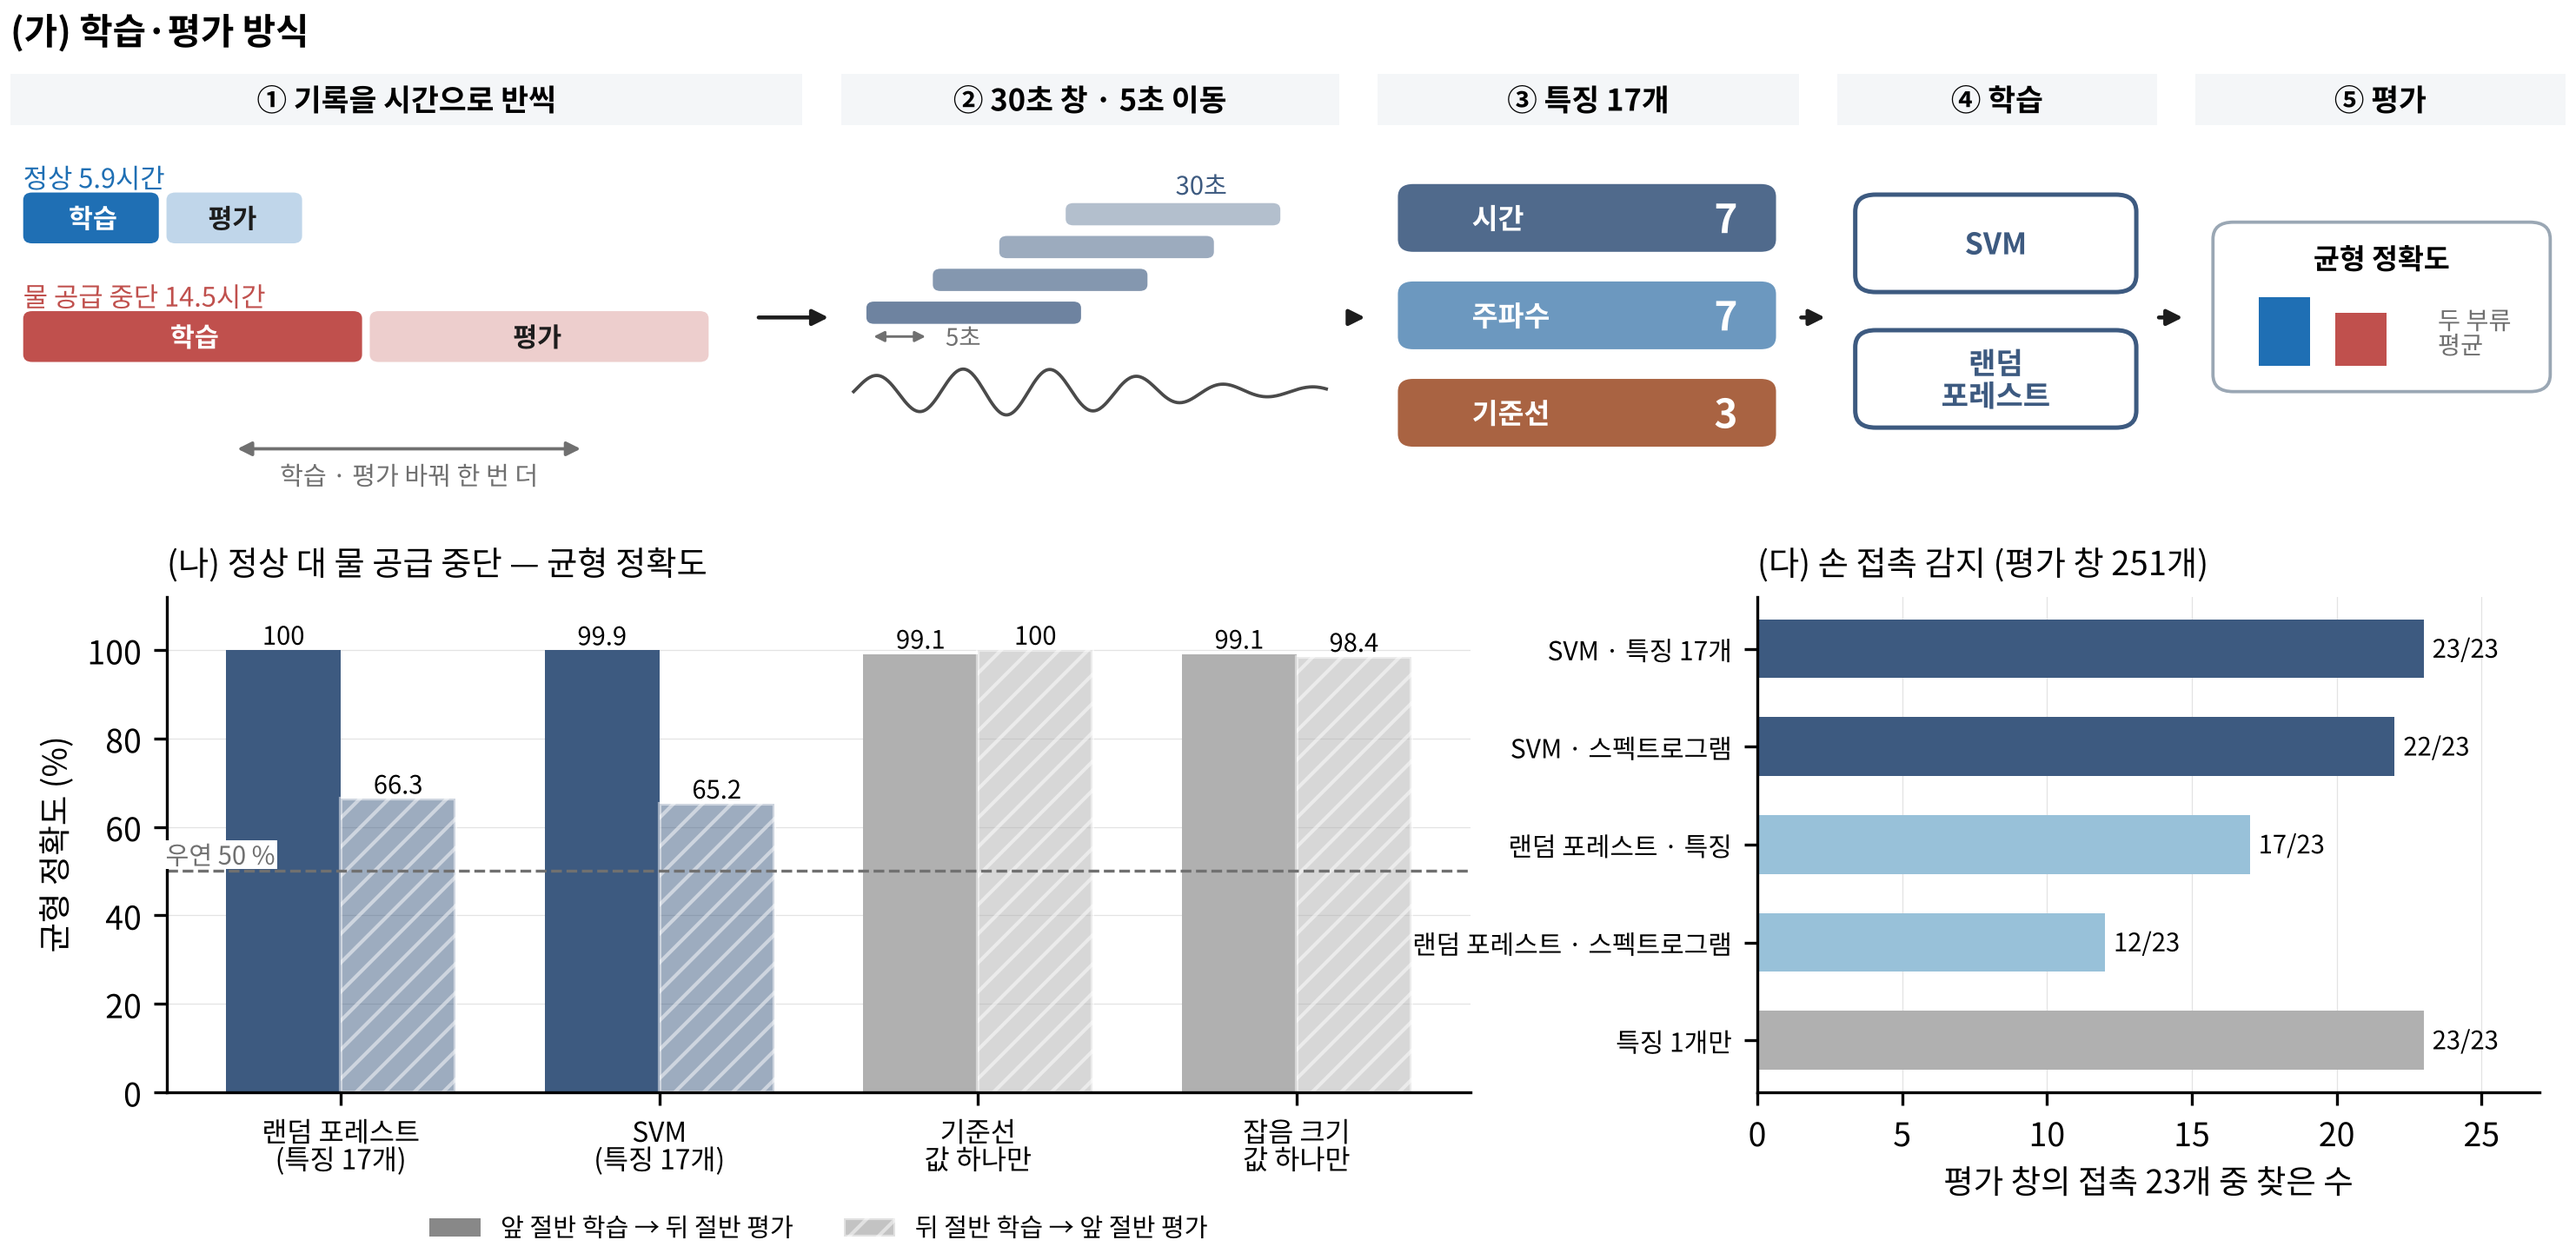
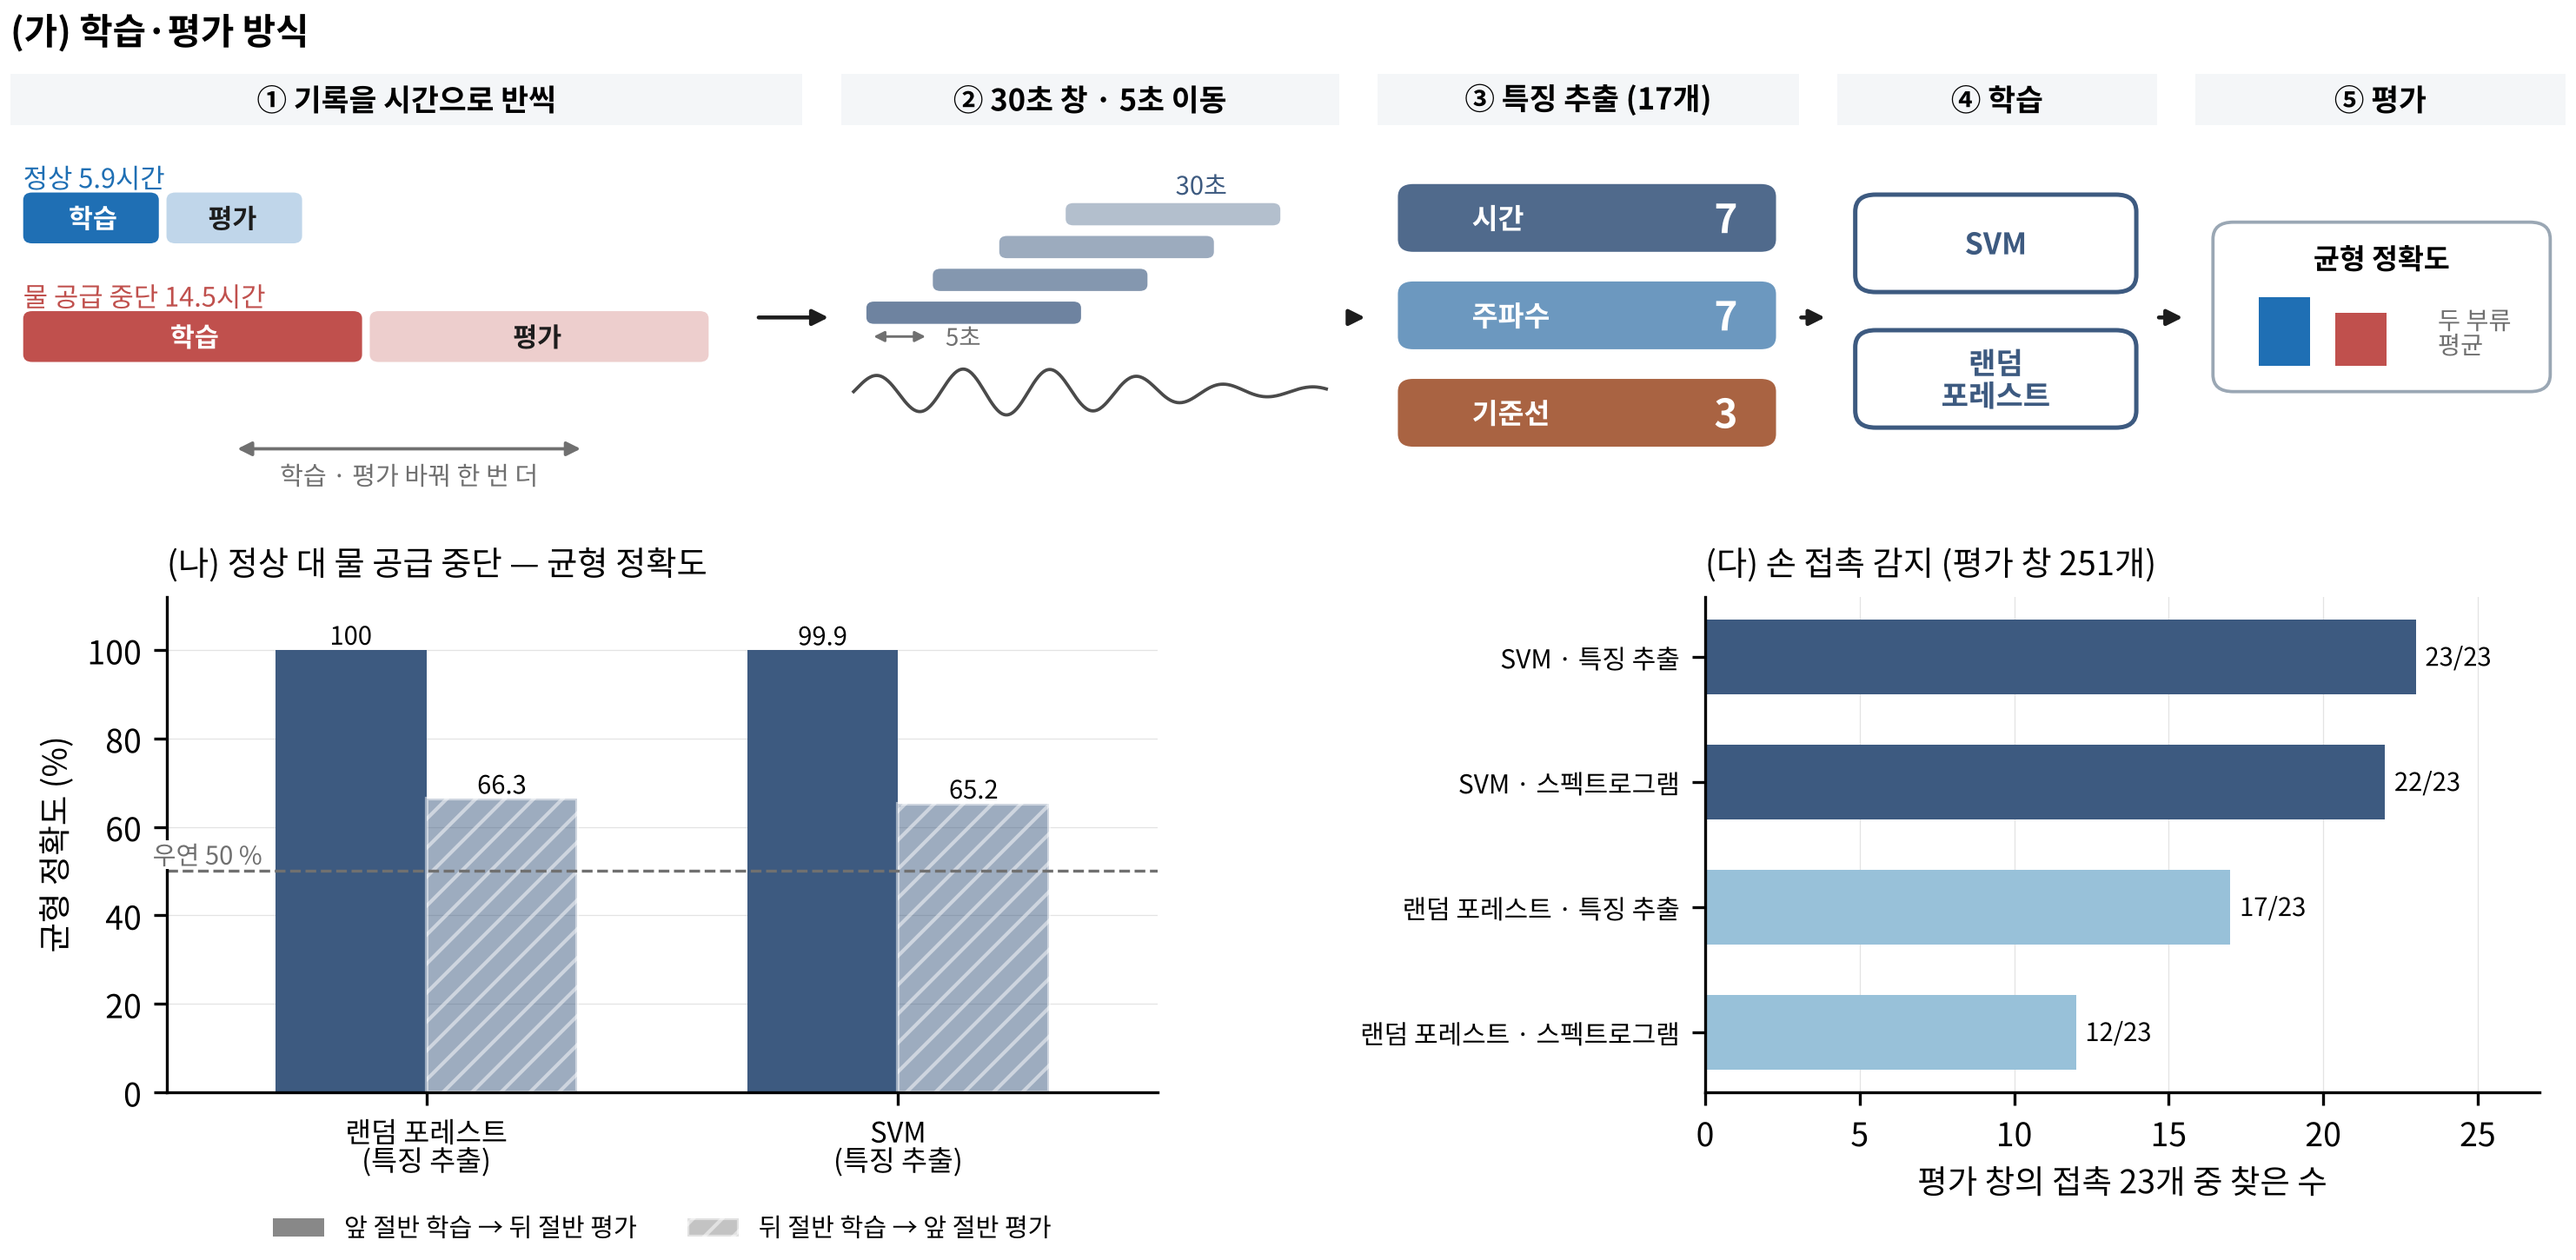
그림5: '특징 추출'로 이름 통일, 값 하나 막대 뺌, (나)(다) 폭 맞춤
Claude-Session: https://claude.ai/code/session_01JhQkgfdzNkTpKPSBfVdw6o

diff --git a/report/stim/fig_ml_eval.py b/report/stim/fig_ml_eval.py
@@ -24,7 +24,7 @@ def band(x0, x1, t):
     a.text((x0 + x1) / 2, 19.8, t, ha="center", va="center", fontsize=8.3, fontweight="bold")
 def arrow(x0, x1, y=9.5):
     a.annotate("", (x1, y), (x0, y), arrowprops=dict(arrowstyle="-|>", lw=1.1, color=INK, mutation_scale=9))
-band(0, 31, "① 기록을 시간으로 반씩"); band(32.5, 52, "② 30초 창 · 5초 이동"); band(53.5, 70, "③ 특징 17개")
+band(0, 31, "① 기록을 시간으로 반씩"); band(32.5, 52, "② 30초 창 · 5초 이동"); band(53.5, 70, "③ 특징 추출 (17개)")
 band(71.5, 84, "④ 학습"); band(85.5, 100, "⑤ 평가")
 # ① 두 기록(같은 축척) + 학습/평가 반
 U = 1.85
@@ -69,27 +69,27 @@ for k, (h, c) in enumerate(((0.9, OK), (0.7, DRY))):
 a.text(95.0, 8.8, "두 부류\n평균", fontsize=6.8, color=GRAY, va="center")
 
 # (나) 정상·물 공급 중단 결과
-b = fig.add_axes([0.07, 0.16, 0.50, 0.38])
-labs = ["랜덤 포레스트\n(특징 17개)", "SVM\n(특징 17개)", "기준선\n값 하나만", "잡음 크기\n값 하나만"]
-fwd = [100.0, 99.9, 99.1, 99.1]; bwd = [66.3, 65.2, 100.0, 98.4]
-xs = np.arange(4); w = 0.36
-cols = [M1, M1, TH, TH]
+b = fig.add_axes([0.07, 0.16, 0.38, 0.38])
+labs = ["랜덤 포레스트\n(특징 추출)", "SVM\n(특징 추출)"]
+fwd = [100.0, 99.9]; bwd = [66.3, 65.2]
+xs = np.arange(2); w = 0.32
+cols = [M1, M1]
 r1 = b.bar(xs - w / 2, fwd, w, color=cols, label="앞 → 뒤")
 r2 = b.bar(xs + w / 2, bwd, w, color=cols, alpha=0.5, hatch="///", edgecolor="white", label="뒤 → 앞")
 for r in list(r1) + list(r2):
     b.text(r.get_x() + r.get_width() / 2, r.get_height() + 1.2, f"{r.get_height():g}", ha="center", fontsize=7)
-b.axhline(50, color=GRAY, ls="--", lw=0.8); b.text(-0.55, 51.5, "우연 50 %", ha="left", fontsize=7, color=GRAY, bbox=dict(fc="white", ec="none", pad=0.5))
-b.set_xticks(xs); b.set_xticklabels(labs, fontsize=7.6); b.set_ylim(0, 112); b.set_ylabel("균형 정확도 (%)")
+b.axhline(50, color=GRAY, ls="--", lw=0.8); b.text(-0.58, 51.5, "우연 50 %", ha="left", fontsize=7, color=GRAY, bbox=dict(fc="white", ec="none", pad=0.5))
+b.set_xticks(xs); b.set_xticklabels(labs, fontsize=7.8); b.set_ylim(0, 112); b.set_xlim(-0.55, 1.55); b.set_ylabel("균형 정확도 (%)")
 b.set_title("(나) 정상 대 물 공급 중단 — 균형 정확도", loc="left", fontsize=9.2)
 from matplotlib.patches import Patch
 b.legend(handles=[Patch(fc="#888888", label="앞 절반 학습 → 뒤 절반 평가"), Patch(fc="#888888", alpha=0.5, hatch="///", ec="white", label="뒤 절반 학습 → 앞 절반 평가")],
          fontsize=7, loc="upper center", bbox_to_anchor=(0.5, -0.2), ncol=2, frameon=False)
 # (다) 손 접촉
-c = fig.add_axes([0.68, 0.16, 0.30, 0.38])
-tl = ["SVM · 특징 17개", "SVM · 스펙트로그램", "랜덤 포레스트 · 특징", "랜덤 포레스트 · 스펙트로그램", "특징 1개만"]
-tv = [23, 22, 17, 12, 23]
-yy = np.arange(5)[::-1]
-c.barh(yy, tv, color=[M1, M1, M2, M2, TH], height=0.6)
+c = fig.add_axes([0.66, 0.16, 0.32, 0.38])
+tl = ["SVM · 특징 추출", "SVM · 스펙트로그램", "랜덤 포레스트 · 특징 추출", "랜덤 포레스트 · 스펙트로그램"]
+tv = [23, 22, 17, 12]
+yy = np.arange(4)[::-1]
+c.barh(yy, tv, color=[M1, M1, M2, M2], height=0.6)
 for y, v in zip(yy, tv):
     c.text(v + 0.3, y, f"{v}/23", va="center", fontsize=7)
 c.set_yticks(yy); c.set_yticklabels(tl, fontsize=7.2); c.set_xlim(0, 27)
